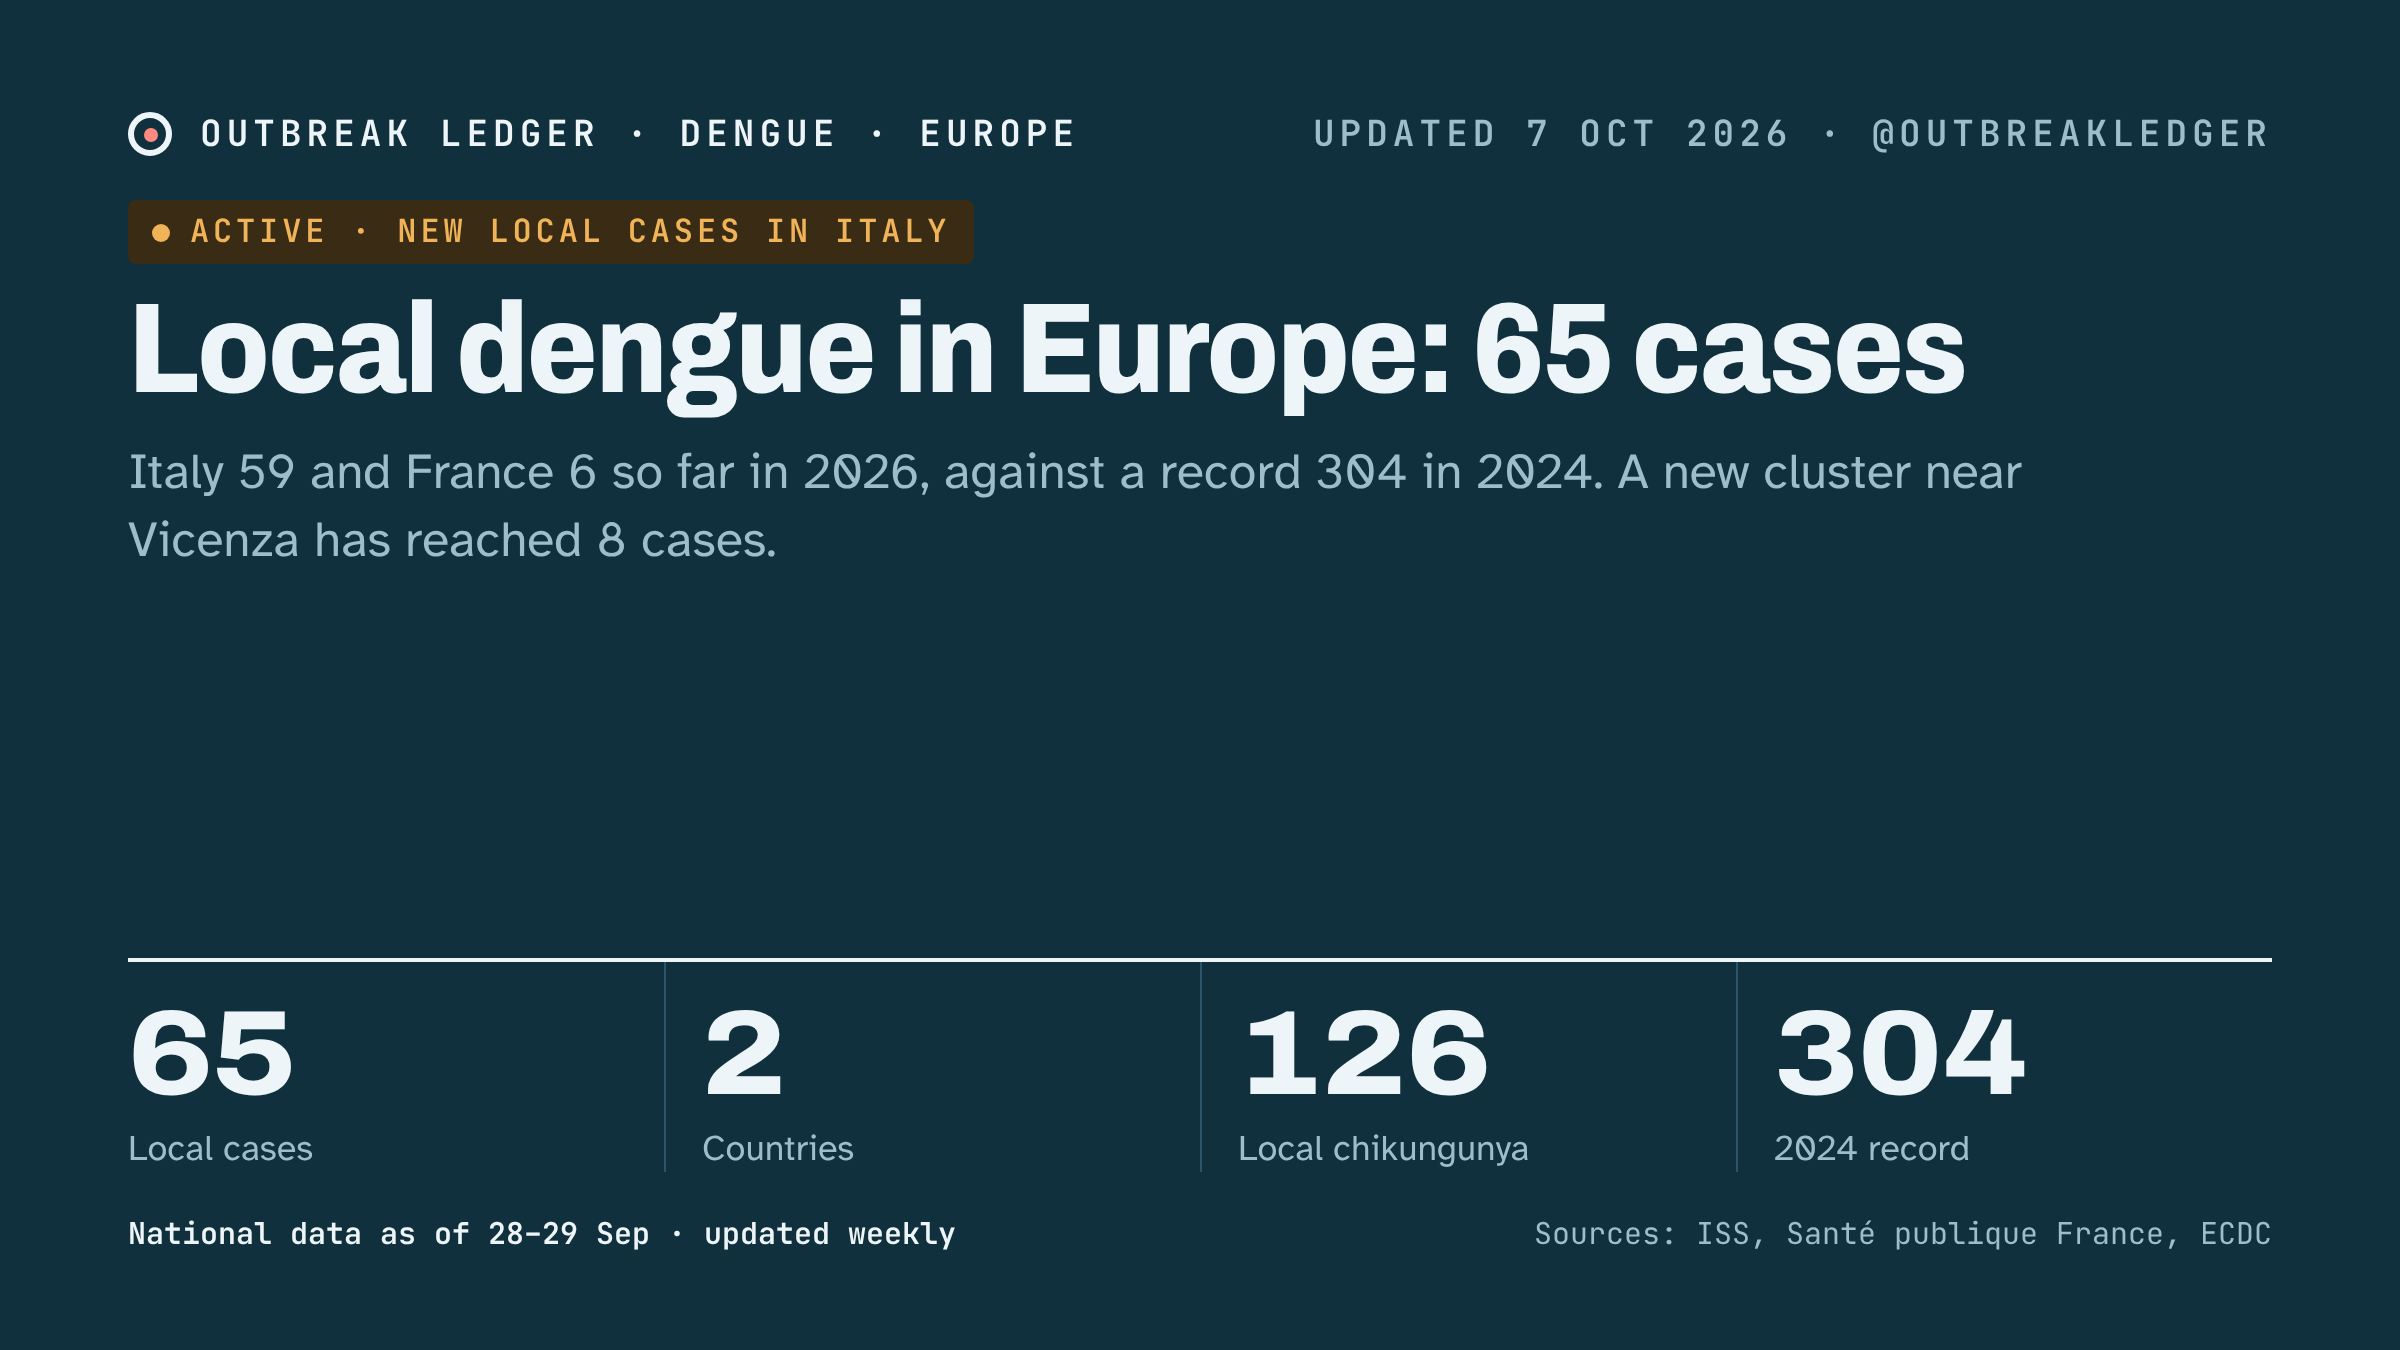
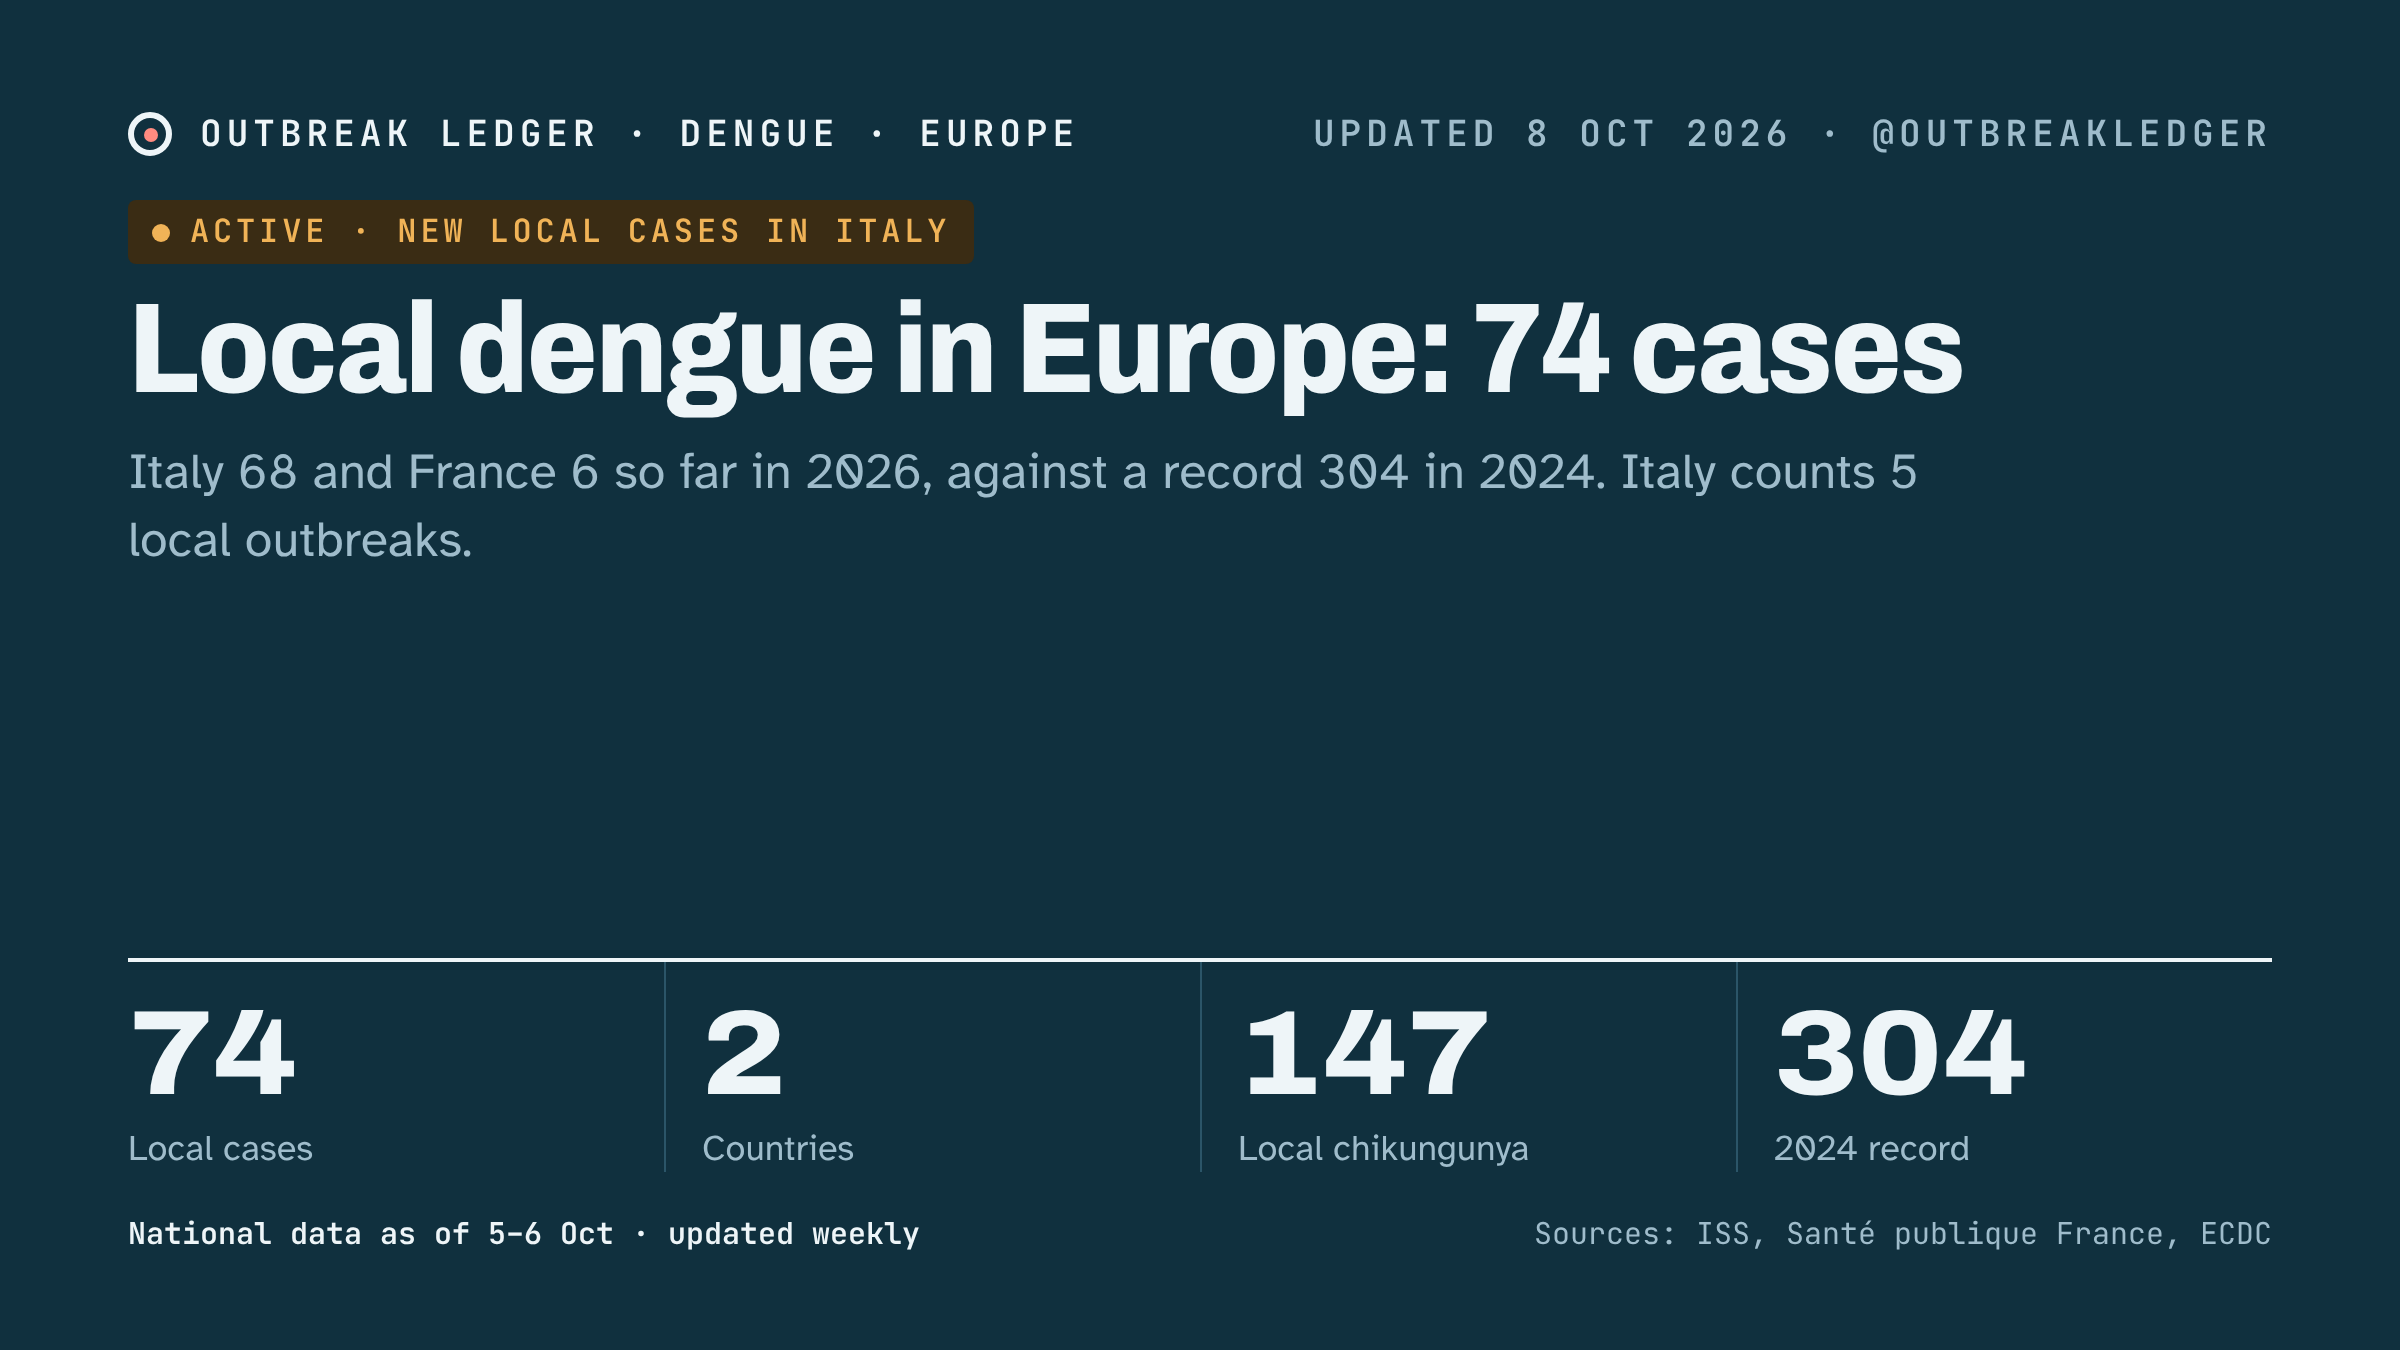
Dengue: Italy 68 local cases (ISS, 6 Oct); Ebola: drop unverified recovered count
Updates the dengue headline, totals, card, map and share images to the
ISS and Santé publique France figures already in the timeline.

Claude-Session: https://claude.ai/code/session_01DjK934MGj4uKY77RiACNyU

diff --git a/site/dengue/share/latest-post.md b/site/dengue/share/latest-post.md
@@ -1,6 +1,6 @@
-Locally acquired dengue in Europe so far in 2026: 59 cases in Italy (ISS, to 29 Sep) and 6 in France (to 28 Sep), well below the 2024 record of 304. A new cluster near Vicenza has reached 8 cases.
+Local dengue in Europe: Italy now counts 68 locally acquired cases in 2026 (ISS, 6 Oct) in 5 outbreaks, and France 6. Still well below the 2024 record of 304. ECDC reports weekly until November.
 
-Live, sourced tracker:
+Live tracker:
 https://nhlebe1.github.io/ai-scheduler-platform/dengue/
 
-Sources: ISS (1 Oct), Santé publique France (30 Sep), ECDC historical data, ULSS 7 Pedemontana via TViWeb and ANSA Veneto (2 Oct).
+Sources: Istituto Superiore di Sanità via Quotidiano Sanità and AgenSIR (8 Oct), Santé publique France (7 Oct).
